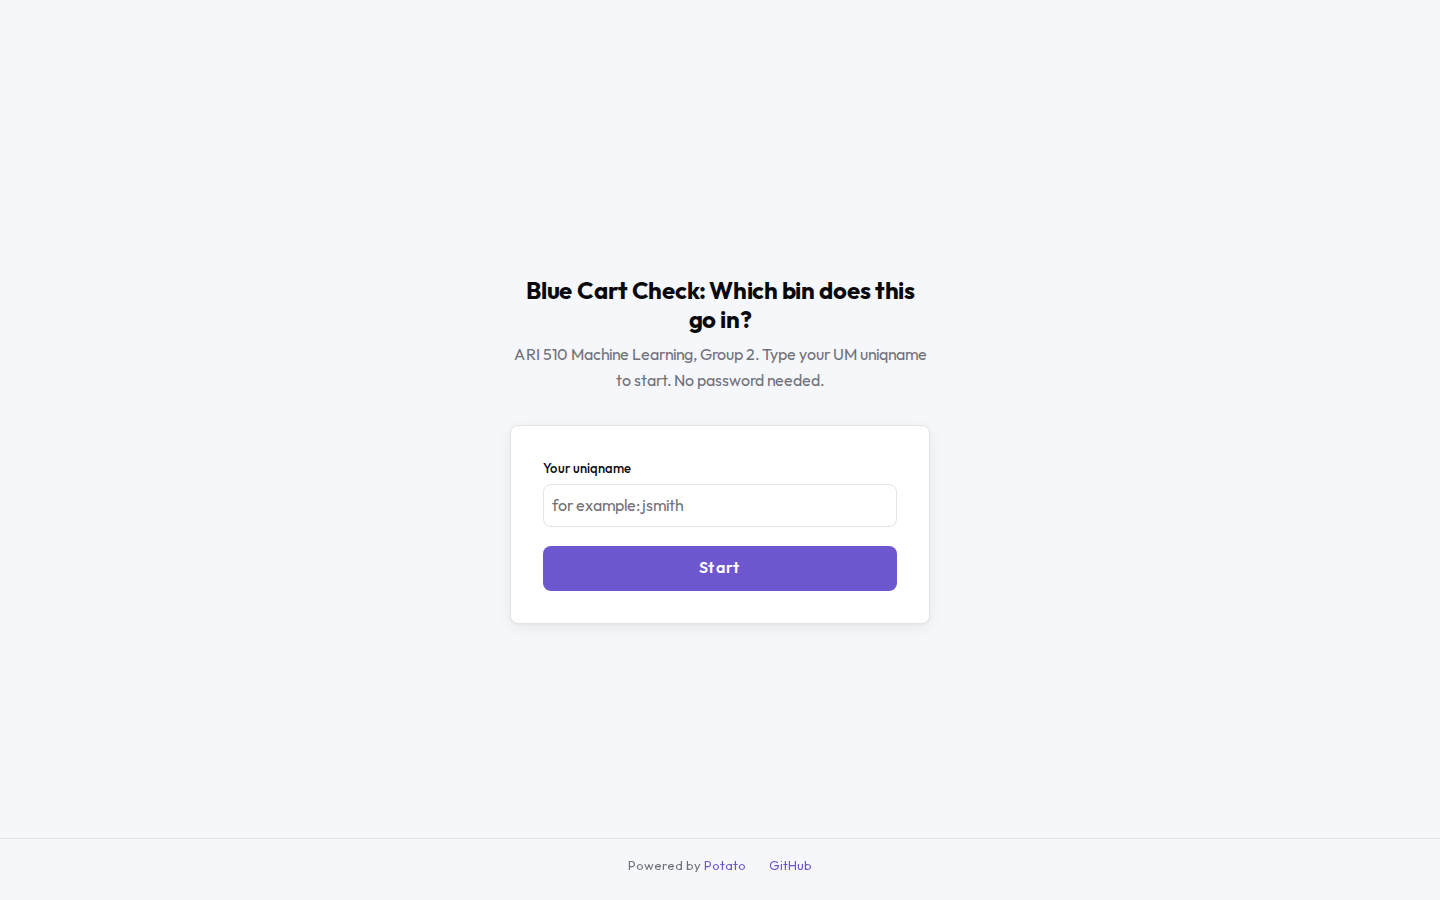
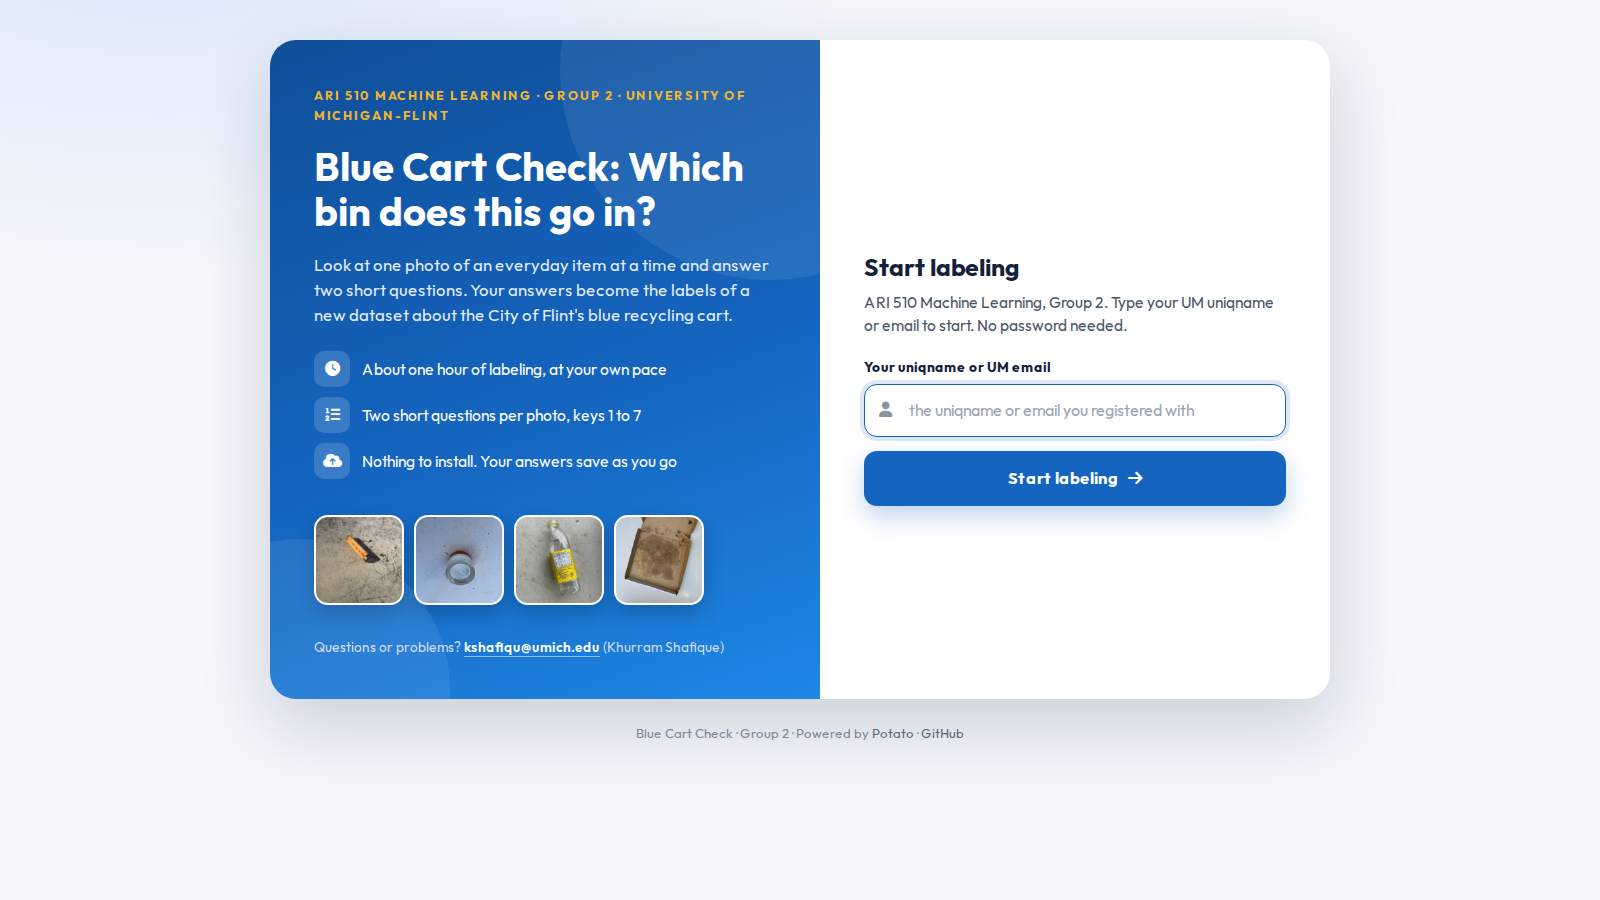
docs: tool screenshots re-taken with the current look, captions updated

Changed region(s): [[0.1562, 0.0311, 0.8125, 0.84], [0.5312, 0.9333, 0.5625, 0.9644]]

diff --git a/docs/PROJECT_DEMO.html b/docs/PROJECT_DEMO.html
@@ -107,7 +107,7 @@ They are <b>not</b> real labels.</div>
     <div><b class="t">The shared link (what the team uses now)</b>Open <a href="https://bluecart.khurramshafique.com">bluecart.khurramshafique.com</a>, choose <b>Register</b>, pick a username and a password. Nothing to install and nothing to send back: the tool runs on Khurram's computer and the link reaches it through a Cloudflare tunnel. Everyone gets the same 30 photos first, then the next 170 that still need a label, 200 in total. Every photo is labeled by 2 people.</div>
     <div><b class="t">Your own copy (the zip pack)</b>Unzip the pack, run <code>potato start config.yaml -p 8000</code>, open <code>http://localhost:8000</code> in Chrome and type your uniqname. No password. If you come back later with the same name, you continue where you stopped. At the end you zip the <code>annotation_output</code> folder and send it to us.</div>
   </div>
-  <figure><img src="figures/tool_1_login.png" alt="The login page of the pack version"><figcaption>The login page of the pack version.</figcaption></figure>
+  <figure><img src="figures/tool_1_login.png" alt="The login page of the pack version"><figcaption>The sign-in page. On the shared link it also has a Create account tab; the zip packs ask only for a name.</figcaption></figure>
   <p>The first time, a <b>welcome page</b> explains the task and the two steps on one screen. It also lists Group 2, the instructor and the teaching assistant. Press <b>Start labeling</b> to continue. You can read it again any time: round <b>?</b> button, then <b>How it works</b>.</p>
   <figure><img src="figures/tool_1b_welcome.png" alt="The welcome page"></figure>
 
@@ -150,13 +150,13 @@ They are <b>not</b> real labels.</div>
     <tr><td>Look at <b>Progress</b> (top)</td><td>How many photos you have answered, for example 4/120.</td></tr>
   </table>
   <figure><img src="figures/tool_12_keys_pressed.png" alt="The key legend while key 1 is pressed">
-    <figcaption>The key legend: Step 1, Step 2 and Photos. Key 1 was just pressed and lights up yellow.</figcaption></figure>
+    <figcaption>The key bar under the title. The pill at the left says what to do now, the step chip turns amber for the step to answer, and the keys chosen for this photo (1 and 5) take the colour of their cards with a check mark. Previous and Next sit at the right.</figcaption></figure>
   <figure><img src="figures/tool_11_keys_blocked.png" alt="Key 4 pressed before Step 1 was answered">
-    <figcaption>Key 4 pressed before Step 1 was answered: the Step 2 keys are grey, the pressed one shakes red, nothing is saved.</figcaption></figure>
+    <figcaption>Key 4 pressed before Step 1 was answered: the Step 2 keys are dimmed, the pressed one shakes red, nothing is saved.</figcaption></figure>
   <figure><img src="figures/tool_10_help_panel.png" alt="The help panel">
-    <figcaption>The help panel behind the round ? button: How it works, the full guidelines, the demo page, the keys, and who to email.</figcaption></figure>
+    <figcaption>The help panel behind the round ? button: How it works, the tutorial video, the full guidelines, the demo page, the keys, and who to email.</figcaption></figure>
   <figure><img src="figures/tool_4_labeled_and_zoom.png" alt="Answered photo, zoomed in">
-    <figcaption>An answered photo ("Can't tell": the picture shows several packages, not one main item) with the photo zoomed in.</figcaption></figure>
+    <figcaption>An answered photo (food scraps: "Never the blue cart") zoomed in with the + button on the picture. The progress card above the photo switches to Labeled the moment the answer is given.</figcaption></figure>
   <figure><img src="figures/tool_5_guidelines_page.png" alt="The guidelines page">
     <figcaption>The Guidelines page. Section 3 quotes the City of Flint and Priority Waste rules word for word.</figcaption></figure>
   <figure><img src="figures/tool_6_narrow_screen.png" alt="The tool on a narrow screen">

diff --git a/docs/AI_USE_LOG.md b/docs/AI_USE_LOG.md
@@ -40,6 +40,7 @@ The course allows AI tools with disclosure (syllabus + Lecture 1). Add one line 
 | 2026-10-07 | Khurram | Claude Code | Top bar, key bar and content now share one page width (1720 px, 16 px gutters) so the title, the first key pill and the card's left edge line up, and Logout, Next and the card's right edge line up; the content card is wider with smaller side margins. The title is a logo badge (amber tile with the recycling icon) plus two lines: "Blue Cart Check" and the question underneath. The signed-in person is an amber avatar circle, name and a Logout pill, all vertically centred in a 66 px bar. In the key bar every pill is 40 px tall, the group name is a chip that turns amber for the step to answer now, keys of the other step are translucent "ghost" keys, and Previous / Next sit at the right edge. On desktop the top bar scrolls away and only the key bar sticks, so they no longer overlap. Phones: subtitle hidden, name shortened with "...", person shown as icon + Logout, small gap above the card. Prompt: "make the top logo and the colour between the step numbers, next etc better; the nav bar is not vertically aligned; less margin so the body is wider; same width and design for the nav bar; better alignment of Blue Cart Check and Which bin does this go in" | 45 geometry checks on a scratch copy at 2000, 1600, 1366 and 412 px wide (edges within 2 px, pill heights, chip colours, no horizontal scroll, no overlap on the phone) plus the 13 theme checks; 11 tests pass; answers fetched from the VM, then pushed with migrate.sh |
 | 2026-10-07 | Khurram | Claude Code | Potato's own Previous / Next buttons under the questions are hidden (one CSS line): the key bar has them on desktop and the fixed bottom bar has them on phones. Prompt: "button between footer and body is not required, next and previous, just remove those and push code to live" | Pushed to the VM with migrate.sh after fetching its answers; public page and a photo URL return 200 |
 | 2026-10-07 | Khurram | Claude Code | Demo page: section 7 "How this meets the Phase 1a requirements" (the status table) and its menu link removed; the page now has six sections. Prompt: "in demo page please remove this section" | Checked that no other file links to that section; the hosted copy at /media/demo/index.html was rebuilt and pushed to the VM |
+| 2026-10-07 | Khurram | Claude Code | The eight tool screenshots on the demo page and in `docs/TOOL_DEMO.md` re-taken with the current look (logo badge and two-line title, key bar with step chips, progress card above the photo, no bottom buttons, phone view), captions updated to match; the "top bar" paragraph in TOOL_DEMO.md now describes the progress card. The welcome, guidelines, admin and review screenshots were unchanged and kept. Prompt: "can you add the new changes screenshot as well where required as it's showing old one" | Taken with a headless browser on a scratch copy at 1600×900 and a 430 px phone; each image was looked at before replacing the old file; the hosted demo page was rebuilt and pushed to the VM |
 | 2026-10-06 | Khurram | Claude Code | Desktop keyboard bar on the annotation tool: under the top menu, a line says which keys work for the photo on screen (1–3, then 4–7, then the right arrow) and only that group stays bright. Each answer card shows a larger keycap in the corner. Phone layout is unchanged. Prompt: "make the shortcut more better so a desktop user can use those keys but visible very clearly" | Checked on a scratch copy at 1440 px: the bar sits under the header, key 1 switches it to Step 2, key 4 switches it to the next-photo prompt. The public server on port 8010 was restarted with the same config; accounts and the photo list were not rebuilt |
 | 2026-10-06 | Khurram | Claude Code | Filled the Phase 1a write-ups that were still blank: README counts, dates, sampling, and missing data; dataset license set to CC BY-NC-SA 4.0 so the RealWaste photos can stay; `CHANGES_FROM_PROPOSAL.md` finished; guidelines locked as v1.0 (cups, main item, accepted-list rule, rigid vs foam clamshells) with the project Discord invite https://discord.gg/2t2DSNyBm; demo page section 2 now says 77 team photos and 540 sourced. Prompt: "so let start those task the discord has this https://discord.gg/2t2DSNyBm for our project" | Numbers checked against `data/manifest.csv` (617 rows, sources, category sets, dates). Six `REVIEW:` photos were looked at and left in the manifest because the live tool is already in use. The live Potato process was not rebuilt, so its on-screen cheat sheet does not yet mention rigid clamshells. Canvas, the Google Form, and the Discord slides post were not submitted |
 | 2026-10-06 | Khurram | Claude Code | Key numbers on the annotation bar and on the answer cards are always black on a white key, including key 3 and the number on a selected dark card. The save toast was the browser losing the connection when the tool restarted. Prompt: "getting error and also see if like 3 is gray and same when 1 its dark and number not visible" | Checked computed colors on a scratch copy: keys 1 and 3 are rgb(17,17,17) on white; a selected blue card stays rgb(21,101,192) while its key badge stays black on white. Public server restarted once after that; a save with no login correctly returns 401 rather than dropping the connection |

diff --git a/docs/TOOL_DEMO.md b/docs/TOOL_DEMO.md
@@ -41,18 +41,18 @@ Open http://localhost:8000 in Chrome. Stop the tool with Ctrl+C.
 | Jump to a photo | Answer the current photo, type a number in the **#** box, press Enter | Goes to that photo. It does not work while the current photo is unanswered |
 | Jump to unlabeled | Click the double-arrow buttons | Goes to the previous / next photo you have not labeled |
 | Key legend | Look under the questions, or click a key there | Three groups: Step 1, Step 2, Photos. A pressed key lights up here, in the help panel and on its card. Clicking a key does the same as pressing it (tablets). The Step 2 keys are grey, and shake red if pressed, until Step 1 is answered |
-| Help | Click the round **?** button (bottom right), Escape closes it | How it works (the welcome page again), the full guidelines, the demo page, the keys, and Khurram's email |
+| Help | Click the round **?** button (bottom right), Escape closes it | How it works (the welcome page again), the tutorial video, the full guidelines, the demo page, the keys, and Khurram's email |
 | Finish | Press → on the last photo | "Thank You" page. Answers can no longer be changed |
 
 The four final labels are computed from the two answers (see guidelines Section 2). For example, blue cart item + ruined = `not_accepted`.
 
-Top bar: **Labeled / Not labeled** is the saved status of the photo on screen, **Progress** is how many photos you have labeled, **Instance** is your position in the list.
+Progress card above the photo: **Labeled / Not labeled** is the status of the photo on screen (it changes the moment you answer), **N of M labeled** is how many photos you have labeled, **photo #** is your position in the list. Its buttons jump to the previous or next unlabeled photo or to a photo number. The top bar itself only shows the title and who is signed in.
 
 ![Welcome page](figures/tool_1b_welcome.png)
 ![Photo, rules and question](figures/tool_2_photo_and_rules.png)
 ![Step 2 appears after choosing a blue cart item](figures/tool_3_step2.png)
 ![Answered, with the photo zoomed](figures/tool_4_labeled_and_zoom.png)
-![The key legend while key 1 is pressed](figures/tool_12_keys_pressed.png)
+![The key bar after answering 1 and 5: the chosen keys take their card colour](figures/tool_12_keys_pressed.png)
 ![Key 4 pressed before Step 1 was answered: it shakes, nothing is saved](figures/tool_11_keys_blocked.png)
 ![The help panel](figures/tool_10_help_panel.png)
 ![The Guidelines page](figures/tool_5_guidelines_page.png)
